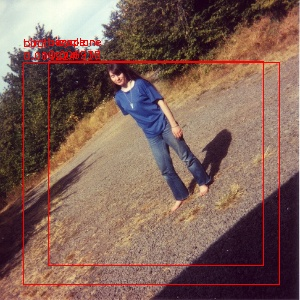
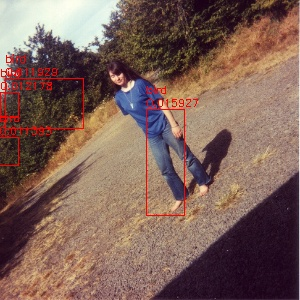
test inference_dataset conf_thresh=0.01 binarized_model_z

Changed region(s): [[0.0, 0.12, 0.96, 0.96], [0.48, 0.27, 0.66, 0.72]]

diff --git a/inference_cpp/src/inference_dataset.cpp b/inference_cpp/src/inference_dataset.cpp
@@ -113,7 +113,7 @@ int main(int argc, char* argv[]) {
     int image_height = 300;
     int image_width = 300;
     int image_channels = 3;
-    float confidence_thresh = 0.001;
+    float confidence_thresh = 0.01;
     float iou_thresh = 0.45;
     int top_k = 4;
     
